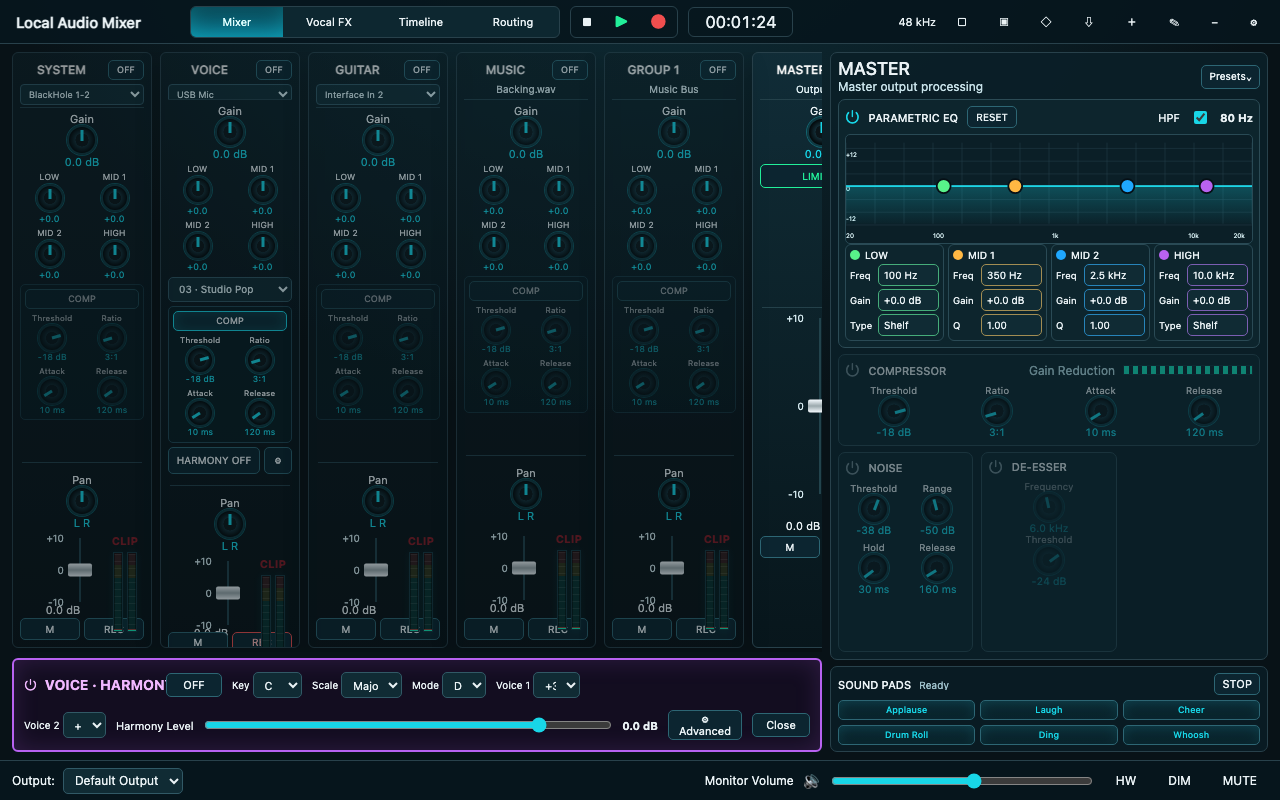
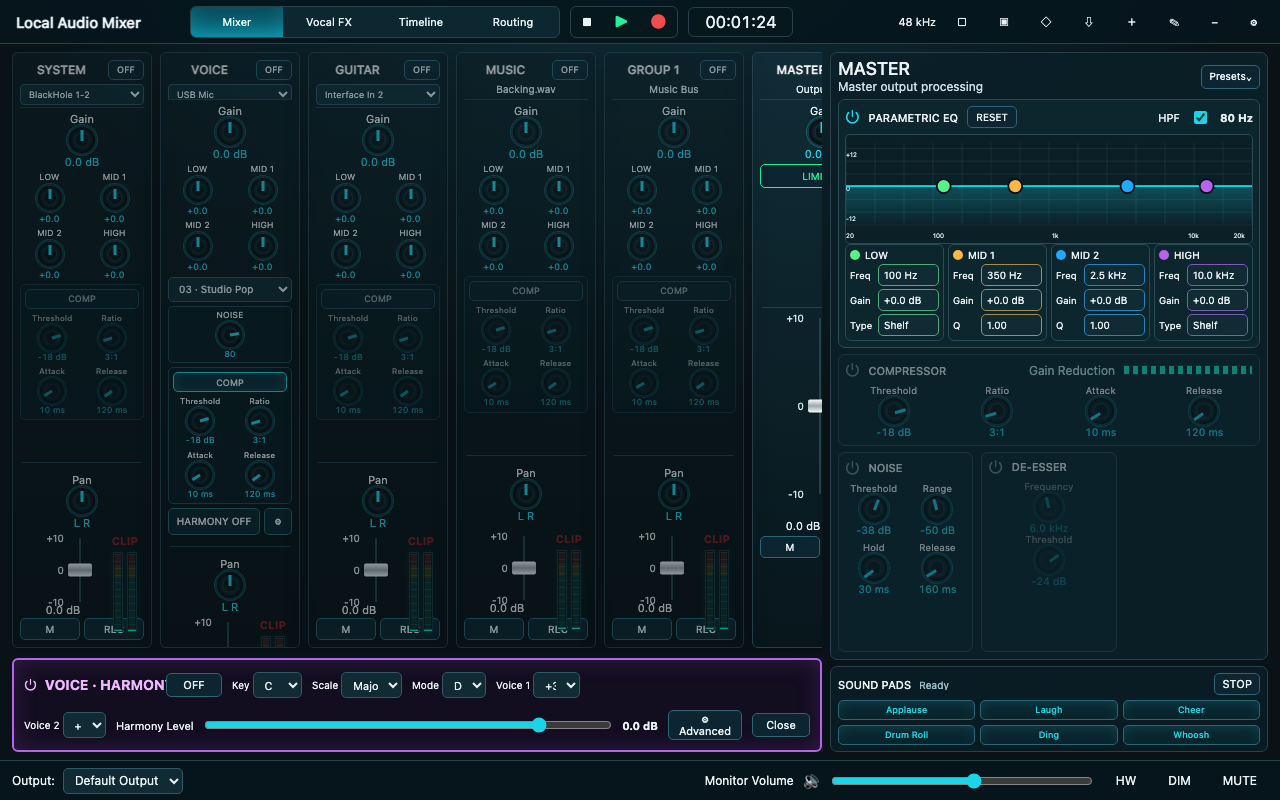
Add single knob vocal noise gate

Changed region(s): [[0.125, 0.375, 0.2188, 0.8125]]

diff --git a/apps/desktop/src/features/mixer/components/ChannelStrip.tsx b/apps/desktop/src/features/mixer/components/ChannelStrip.tsx
@@ -17,6 +17,7 @@ interface ChannelStripProps {
   onPan(value: number): void;
   onFader(value: number): void;
   onEqBand(bandId: EqBandState["id"], gainDb: number): void;
+  onNoiseAmount(amount: number): void;
   onCompressorParam(field: keyof ChannelState["dynamics"]["compressor"], value: number): void;
   onCompressorEnabled(enabled: boolean): void;
   onMute(muted: boolean): void;
@@ -27,7 +28,7 @@ interface ChannelStripProps {
   onHarmonySettings?(): void;
 }
 
-export function ChannelStrip({ channel, sourceOptions, vocalFxPresetId, vocalFxPresets, onSelect, onEnabled, onSource, onTrim, onPan, onFader, onEqBand, onCompressorParam, onCompressorEnabled, onMute, onRecordArm, onVocalFxPreset, onClipReset, onHarmonyToggle, onHarmonySettings }: ChannelStripProps) {
+export function ChannelStrip({ channel, sourceOptions, vocalFxPresetId, vocalFxPresets, onSelect, onEnabled, onSource, onTrim, onPan, onFader, onEqBand, onNoiseAmount, onCompressorParam, onCompressorEnabled, onMute, onRecordArm, onVocalFxPreset, onClipReset, onHarmonyToggle, onHarmonySettings }: ChannelStripProps) {
   const isMaster = channel.kind === "master";
   const meter = channel.enabled ? channel.meter : { left: -60, right: -60, clip: false };
 
@@ -46,6 +47,7 @@ export function ChannelStrip({ channel, sourceOptions, vocalFxPresetId, vocalFxP
       </header>
       <RotaryKnob label="Gain" value={`${channel.trimDb.toFixed(1)} dB`} numericValue={channel.trimDb} min={-24} max={24} step={0.5} onChange={onTrim} />
       {isMaster ? <MasterUpperControls /> : <ChannelToneControls channel={channel} vocalFxPresetId={vocalFxPresetId} vocalFxPresets={vocalFxPresets} onEqBand={onEqBand} onVocalFxPreset={onVocalFxPreset} />}
+      {channel.role === "vocal" ? <ChannelNoiseControl channel={channel} onAmount={onNoiseAmount} /> : null}
       {!isMaster ? <ChannelCompressorControls channel={channel} onParam={onCompressorParam} onEnabled={onCompressorEnabled} /> : null}
       {channel.harmonyVisible ? (
         <div className="harmony-shortcut">
@@ -68,6 +70,31 @@ export function ChannelStrip({ channel, sourceOptions, vocalFxPresetId, vocalFxP
       </div>
     </article>
   );
+}
+
+function ChannelNoiseControl({ channel, onAmount }: {
+  channel: ChannelState;
+  onAmount(amount: number): void;
+}) {
+  const amount = channel.processing.noise ? noiseAmountFromThreshold(channel.dynamics.noise.thresholdDb) : 0;
+  return (
+    <div className={`channel-noise-section ${channel.processing.noise ? "is-active" : "is-bypassed"}`}>
+      <RotaryKnob
+        label="NOISE"
+        value={amount > 0 ? `${amount}` : "OFF"}
+        numericValue={amount}
+        min={0}
+        max={100}
+        step={5}
+        size="sm"
+        onChange={onAmount}
+      />
+    </div>
+  );
+}
+
+function noiseAmountFromThreshold(thresholdDb: number) {
+  return Math.round(Math.max(0, Math.min(100, ((thresholdDb + 75) / 45) * 100)) / 5) * 5;
 }
 
 function ChannelCompressorControls({ channel, onParam, onEnabled }: {

diff --git a/apps/desktop/src/adapters/preview/PreviewAdapter.ts b/apps/desktop/src/adapters/preview/PreviewAdapter.ts
@@ -142,6 +142,19 @@ export class PreviewAdapter implements MixerControlPort {
     } : channel);
   }
 
+  setChannelNoiseAmount(channelId: string, amount: number): void {
+    const nextAmount = clamp(amount, 0, 100);
+    const noise = noiseSettingsFromAmount(nextAmount);
+    this.snapshot.channels = this.snapshot.channels.map((channel) => channel.id === channelId ? {
+      ...channel,
+      processing: {
+        ...channel.processing,
+        noise: isProcessorAvailable(channel, "noise") && nextAmount > 0
+      },
+      dynamics: { ...channel.dynamics, noise }
+    } : channel);
+  }
+
   setChannelNoiseParam(channelId: string, field: keyof ChannelDynamicsState["noise"], value: number): void {
     this.snapshot.channels = this.snapshot.channels.map((channel) => channel.id === channelId ? {
       ...channel,
@@ -373,7 +386,7 @@ function newSourceChannel(id: string, name: string, role: Exclude<ChannelRole, "
     recordArm: false,
     harmonyVisible: role === "vocal",
     harmonyEnabled: false,
-    processing: { eq: true, comp: role === "vocal", noise: role === "vocal", deEsser: false, insertFx: false },
+    processing: { eq: true, comp: role === "vocal", noise: false, deEsser: false, insertFx: false },
     dynamics: defaultDynamics(),
     sends: { "fx-a": { enabled: false, gainDb: -60 }, "fx-b": { enabled: false, gainDb: -60 } },
     eqBands: defaultEqBands(),
@@ -461,6 +474,16 @@ function clampCompressor(field: keyof ChannelDynamicsState["compressor"], value:
   return clamp(value, 10, 3000);
 }
 
+function noiseSettingsFromAmount(amount: number): ChannelDynamicsState["noise"] {
+  const normalized = clamp(amount, 0, 100) / 100;
+  return {
+    thresholdDb: roundTo(-75 + normalized * 45, 1),
+    rangeDb: roundTo(-15 - normalized * 55, 1),
+    holdMs: Math.round(120 - normalized * 85),
+    releaseMs: Math.round(260 - normalized * 170)
+  };
+}
+
 function isProcessorAvailable(channel: ChannelState, processorId: ProcessorId) {
   if (processorId === "noise") return channel.role !== "system";
   if (processorId === "insertFx") return channel.role !== "system";
@@ -473,6 +496,11 @@ function clampNoise(field: keyof ChannelDynamicsState["noise"], value: number) {
   if (field === "rangeDb") return clamp(value, -90, 0);
   if (field === "holdMs") return clamp(value, 0, 1000);
   return clamp(value, 5, 3000);
+}
+
+function roundTo(value: number, decimals: number) {
+  const factor = 10 ** decimals;
+  return Math.round(value * factor) / factor;
 }
 
 function clampDeEsser(field: keyof ChannelDynamicsState["deEsser"], value: number) {

diff --git a/apps/desktop/src/features/mixer/components/ChannelBank.tsx b/apps/desktop/src/features/mixer/components/ChannelBank.tsx
@@ -13,6 +13,7 @@ interface ChannelBankProps {
   onPan(channelId: string, value: number): void;
   onFader(channelId: string, value: number): void;
   onEqBand(channelId: string, bandId: EqBandState["id"], gainDb: number): void;
+  onNoiseAmount(channelId: string, amount: number): void;
   onCompressorParam(channelId: string, field: keyof ChannelState["dynamics"]["compressor"], value: number): void;
   onCompressorEnabled(channelId: string, enabled: boolean): void;
   onMute(channelId: string, muted: boolean): void;
@@ -23,7 +24,7 @@ interface ChannelBankProps {
   onHarmonySettings(channelId: string): void;
 }
 
-export function ChannelBank({ channels, sourceOptions, vocalFxPresetId, vocalFxPresets, onSelect, onEnabled, onSource, onTrim, onPan, onFader, onEqBand, onCompressorParam, onCompressorEnabled, onMute, onRecordArm, onVocalFxPreset, onClipReset, onHarmonyToggle, onHarmonySettings }: ChannelBankProps) {
+export function ChannelBank({ channels, sourceOptions, vocalFxPresetId, vocalFxPresets, onSelect, onEnabled, onSource, onTrim, onPan, onFader, onEqBand, onNoiseAmount, onCompressorParam, onCompressorEnabled, onMute, onRecordArm, onVocalFxPreset, onClipReset, onHarmonyToggle, onHarmonySettings }: ChannelBankProps) {
   return (
     <section className="channel-bank">
       {channels.map((channel) => (
@@ -40,6 +41,7 @@ export function ChannelBank({ channels, sourceOptions, vocalFxPresetId, vocalFxP
           onPan={(value) => onPan(channel.id, value)}
           onFader={(value) => onFader(channel.id, value)}
           onEqBand={(bandId, gainDb) => onEqBand(channel.id, bandId, gainDb)}
+          onNoiseAmount={(amount) => onNoiseAmount(channel.id, amount)}
           onCompressorParam={(field, value) => onCompressorParam(channel.id, field, value)}
           onCompressorEnabled={(enabled) => onCompressorEnabled(channel.id, enabled)}
           onMute={(muted) => onMute(channel.id, muted)}

diff --git a/apps/desktop/src/styles/app.css b/apps/desktop/src/styles/app.css
@@ -86,6 +86,13 @@
 .channel-tone-controls .rotary-face { width: 26px; height: 26px; }
 .channel-tone-controls .rotary-tick { height: 10px; transform-origin: 50% 10px; }
 .channel-tone-controls .rotary-value { font-size: 9px; margin-top: 2px; }
+.channel-noise-section { display: grid; place-items: center; padding: 3px 4px; border: 1px solid #214957; border-radius: 5px; background: rgba(8, 30, 38, 0.72); }
+.channel-noise-section.is-bypassed { opacity: 0.58; }
+.channel-noise-section .rotary { min-width: 0; }
+.channel-noise-section .rotary-label { font-size: 8.5px; margin-bottom: 1px; }
+.channel-noise-section .rotary-face { width: 25px; height: 25px; }
+.channel-noise-section .rotary-tick { height: 9px; transform-origin: 50% 9px; }
+.channel-noise-section .rotary-value { font-size: 8.5px; margin-top: 1px; }
 .channel-compressor-section { display: grid; gap: 4px; padding: 4px; border: 1px solid #214957; border-radius: 5px; background: rgba(8, 30, 38, 0.72); }
 .channel-compressor-section.is-bypassed { opacity: 0.58; }
 .channel-compressor-section > .ui-button { min-height: 20px; padding: 1px 5px; font-size: 9px; }

diff --git a/tests/ui/preview-adapter.test.ts b/tests/ui/preview-adapter.test.ts
@@ -125,6 +125,30 @@ describe("PreviewAdapter", () => {
     expect(voice?.dynamics.deEsser.frequencyHz).toBe(7200);
   });
 
+  it("maps one vocal noise knob onto safe gate parameters", () => {
+    const adapter = new PreviewAdapter();
+    adapter.setChannelNoiseAmount("voice", 70);
+    let voice = adapter.getSnapshot().channels.find((channel) => channel.id === "voice");
+
+    expect(voice?.processing.noise).toBe(true);
+    expect(voice?.dynamics.noise).toEqual({
+      thresholdDb: -43.5,
+      rangeDb: -53.5,
+      holdMs: 61,
+      releaseMs: 141
+    });
+
+    adapter.setChannelNoiseAmount("voice", 0);
+    voice = adapter.getSnapshot().channels.find((channel) => channel.id === "voice");
+    expect(voice?.processing.noise).toBe(false);
+    expect(voice?.dynamics.noise).toEqual({
+      thresholdDb: -75,
+      rangeDb: -15,
+      holdMs: 120,
+      releaseMs: 260
+    });
+  });
+
   it("loads a native FX bank without changing existing unit choices", () => {
     const adapter = new PreviewAdapter();
     adapter.setPrograms([

diff --git a/apps/desktop/src/features/mixer/MixerPage.tsx b/apps/desktop/src/features/mixer/MixerPage.tsx
@@ -490,6 +490,7 @@ export function MixerPage() {
             onPan={(id, value) => refreshLiveProcessing(() => adapter.setChannelPan(id, value))}
             onFader={(id, value) => refreshLiveProcessing(() => adapter.setChannelFader(id, value))}
             onEqBand={(id, bandId, gainDb) => refreshLiveProcessing(() => adapter.setChannelEqBand(id, bandId, "gainDb", gainDb))}
+            onNoiseAmount={(id, amount) => refreshLiveProcessing(() => adapter.setChannelNoiseAmount(id, amount))}
             onCompressorParam={(id, field, value) => refreshLiveProcessing(() => adapter.setChannelCompressorParam(id, field, value))}
             onCompressorEnabled={(id, enabled) => refreshLiveProcessing(() => adapter.setChannelProcessor(id, "comp", enabled))}
             onMute={(id, muted) => {

diff --git a/apps/desktop/src/adapters/MixerControlPort.ts b/apps/desktop/src/adapters/MixerControlPort.ts
@@ -182,6 +182,7 @@ export interface MixerControlPort {
   setRecordingStatus(status: RecordingWorkflowStatus, error?: string): void;
   addRecordedTakes(takes: RecordedTakeState[], armedChannelIds?: string[], takeDirectory?: string): void;
   setChannelProcessor(channelId: string, processorId: ProcessorId, enabled: boolean): void;
+  setChannelNoiseAmount(channelId: string, amount: number): void;
   setChannelNoiseParam(channelId: string, field: keyof ChannelDynamicsState["noise"], value: number): void;
   setChannelCompressorParam(channelId: string, field: keyof ChannelDynamicsState["compressor"], value: number): void;
   setChannelDeEsserParam(channelId: string, field: keyof ChannelDynamicsState["deEsser"], value: number): void;

diff --git a/tests/ui/visual.visual.ts b/tests/ui/visual.visual.ts
@@ -54,6 +54,8 @@ test("preview controls mutate visible mixer state", async ({ page }) => {
   await expect(voiceStrip.getByText("+4.0")).toBeVisible();
   await voiceStrip.locator('input[aria-label="MID 1"]').fill("-2");
   await expect(voiceStrip.getByText("-2.0")).toBeVisible();
+  await voiceStrip.locator('input[aria-label="NOISE"]').fill("70");
+  await expect(voiceStrip.locator(".channel-noise-section .rotary-value")).toHaveText("70");
   await expect(voiceStrip.getByRole("button", { name: "COMP", exact: true })).toHaveClass(/is-active/);
   await voiceStrip.locator('input[aria-label="Ratio"]').fill("4");
   await expect(voiceStrip.getByText("4:1")).toBeVisible();

diff --git a/docs/progress.md b/docs/progress.md
@@ -4065,3 +4065,39 @@ Validation:
 Known limitations:
 - No manual visual QA beyond automated screenshots was run.
 - True simultaneous native live capture/mixing for multiple active channels remains a separate required checkpoint.
+
+### Phase19 UX Checkpoint — Add Single-Knob Vocal Noise Gate
+
+Changed files:
+- `apps/desktop/src/adapters/MixerControlPort.ts`: added the `setChannelNoiseAmount` control port method for a simplified gate/noise amount.
+- `apps/desktop/src/adapters/preview/PreviewAdapter.ts`: maps a 0-100 vocal noise amount to threshold/range/hold/release and leaves new vocal channels noise-bypassed by default.
+- `apps/desktop/src/features/mixer/MixerPage.tsx`: wires the strip noise amount control through live-processing refresh and native sync.
+- `apps/desktop/src/features/mixer/components/ChannelBank.tsx`: passes per-channel noise amount changes into each strip.
+- `apps/desktop/src/features/mixer/components/ChannelStrip.tsx`: adds one compact `NOISE` knob on the VOICE strip only.
+- `apps/desktop/src/styles/app.css`: styles the compact one-knob noise section without reintroducing selected-strip focus.
+- `tests/ui/preview-adapter.test.ts`: verifies one-knob amount mapping and bypass-at-zero behavior.
+- `tests/ui/visual.visual.ts`: verifies the visible mixer control can mutate the noise amount.
+- `docs/progress.md`: recorded verification evidence.
+
+Implemented behavior:
+- VOICE now exposes one `NOISE` knob instead of separate gate parameters in the strip workflow.
+- `NOISE=OFF` bypasses the gate; raising the knob enables noise processing and automatically adjusts threshold, range, hold, and release together.
+- Newly created vocal channels no longer start with noise/gate enabled, preventing unintended mic coloration when the user has not requested noise reduction.
+- SYSTEM remains blocked from noise/gate, insert FX, and FX sends.
+
+Validation:
+- command: `npm run typecheck`
+- exit/result: `0`; TypeScript passed.
+- command: `npm run check:file-size`
+- exit/result: `0`; first-party file-size limits passed.
+- command: `npm run test:ui`
+- exit/result: `0`; Vitest 53/53 passed.
+- command: `npm run test:visual`
+- exit/result: `0`; Playwright visual suite 6/6 passed after narrowing an ambiguous test locator.
+- command: `npm run verify`
+- exit/result: `0`; plan, file-size, architecture, typecheck, Vitest 53/53, native CTest 43/43, engine self-test, device enumeration smoke, protocol smoke, UI build, and Electron main/preload build passed.
+
+Known limitations:
+- Manual mic listening validation for the single-knob gate curve is `NOT_RUN`.
+- The current gate model does not expose a ratio field; the one-knob mapping controls the available threshold/range/hold/release parameters.
+- True simultaneous native live capture/mixing for multiple active channels remains a separate required checkpoint.
